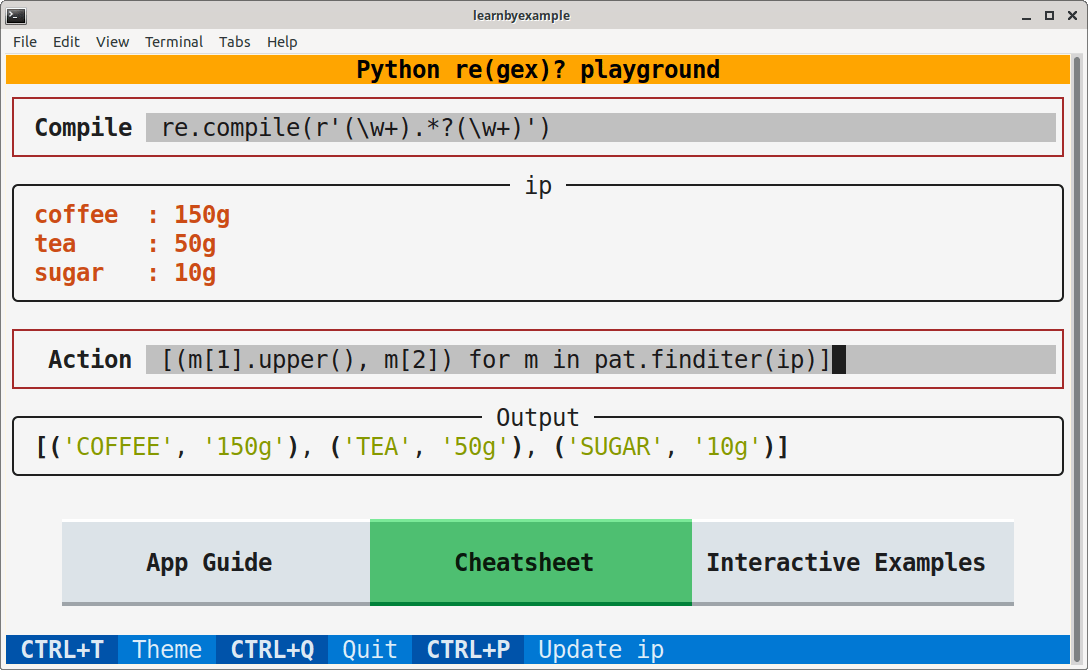
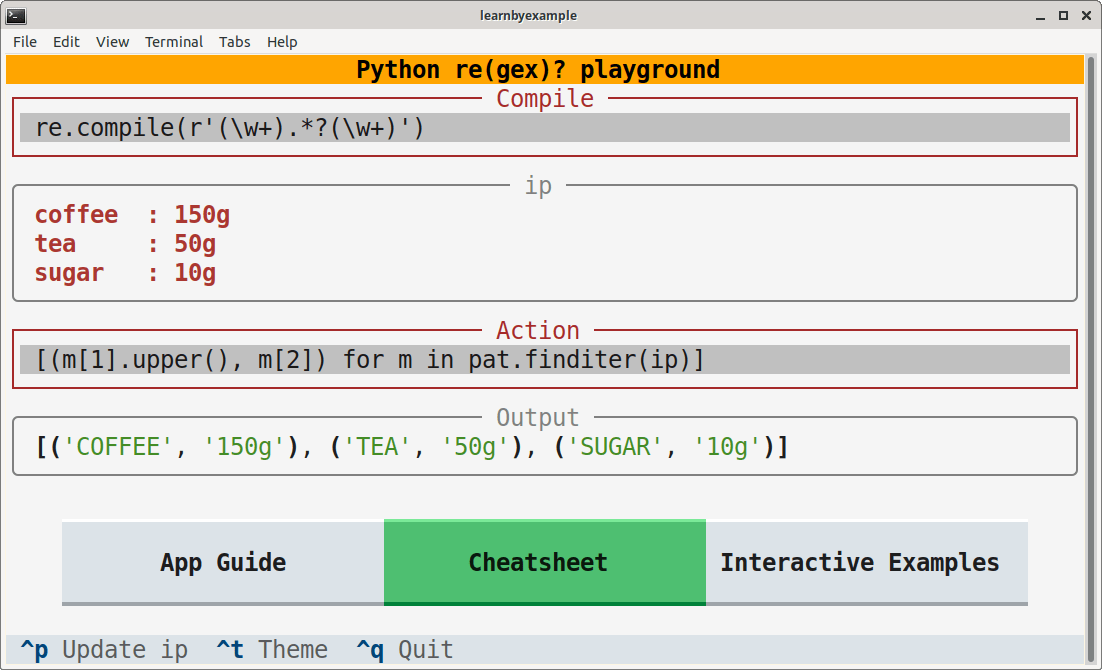
changed dynamic container code to not use mount

diff --git a/PyRegexPlayground/pyregex_playground.css b/PyRegexPlayground/pyregex_playground.css
@@ -15,6 +15,7 @@
     height: auto;
     width: 100%;
     border: solid brown;
+    border-title-align: center;    
 }
 
 .examples_ip {
@@ -37,14 +38,6 @@
 .examples_md {
     margin: 1 2 0 2;
     border: none;
-}
-
-.playground_name {
-    min-height: 1;
-    padding: 0 1 0 1;
-    text-style: bold;
-    text-align: right;
-    width: 9;
 }
 
 .playground_ip {

diff --git a/PyRegexPlayground/pyregex_playground.py b/PyRegexPlayground/pyregex_playground.py
@@ -83,17 +83,17 @@ class Examples(Screen):
                 l_op.border_title = str(type(e).__name__)
 
     def load_examples(self):
-        self.v_examples = Vertical(classes='container')
         self.v_code_block = []
         self.input_collection = []
         comment_highlighter = CommentHighlighter()
         with open('examples.json', encoding='UTF-8') as f:
             md = iter(json.load(f).values())
         idx = 0
+        md_cb_widgets = []
         for info in md:
             code_block = next(md)
-            self.v_code_block.append(Vertical(classes='code_container'))
             self.input_collection.append([])
+            cb_widgets = []
             for unit in code_block:
                 lines = unit.splitlines(keepends=True)
                 *setup, expr = lines
@@ -107,10 +107,12 @@ class Examples(Screen):
                 l_op = Label(Pretty(op), classes='examples_op', markup=False)
                 t.append(l_op)
                 self.input_collection[idx].append(t)
-                self.v_code_block[idx].mount(*t)
-            self.v_examples.mount(Label(RichMarkdown(info), classes='examples_md'))
-            self.v_examples.mount(self.v_code_block[idx])
+                cb_widgets.extend(t)
+            self.v_code_block.append(Vertical(*cb_widgets, classes='code_container'))
+            md_cb_widgets.append(Label(RichMarkdown(info), classes='examples_md'))
+            md_cb_widgets.append(self.v_code_block[idx])
             idx += 1
+        self.v_examples = Vertical(*md_cb_widgets, classes='container')
         self.v_container.mount(self.v_examples)
 
     def action_reload(self):
@@ -129,9 +131,6 @@ class Playground(Screen):
 
     def __init__(self):
         super().__init__()
-
-        self.l_compile = Label('Compile', classes='playground_name')
-        self.l_action = Label('Action', classes='playground_name')
 
         self.l_compile_error = Label()
         self.l_action_error = Label()
@@ -153,7 +152,7 @@ class Playground(Screen):
         self.i_compile = Input(placeholder=placeholder, value="re.compile(r'')",
                                classes='playground_ip')
         self.i_compile.styles.background = self.code_bg_color
-        placeholder = "Function to run. Example: pat.sub('X', ip)"
+        placeholder = "Function to run. For example: pat.sub('X', ip)"
         self.i_action = Input(placeholder=placeholder,
                               classes='playground_ip')
         self.i_action.styles.background = self.code_bg_color
@@ -166,10 +165,10 @@ class Playground(Screen):
     def compose(self):
         yield Label('[b]Python re(gex)? playground', classes='header')
         with Vertical(classes='code_container') as self.v_compile:
-            yield Horizontal(self.l_compile, self.i_compile, classes='container')
+            yield self.i_compile
         yield self.l_input
         with Vertical(classes='code_container') as self.v_action:
-            yield Horizontal(self.l_action, self.i_action, classes='container')
+            yield self.i_action
         yield self.l_output
         with Horizontal(classes='container'):
             yield self.b_guide
@@ -179,6 +178,8 @@ class Playground(Screen):
 
     def on_mount(self):
         self.i_compile.focus()
+        self.v_compile.border_title = 'Compile'
+        self.v_action.border_title = 'Action'
 
     def on_input_submitted(self, event):
         self.l_compile_error.remove()

diff --git a/PyRegexExercises/pyregex_exercises.py b/PyRegexExercises/pyregex_exercises.py
@@ -14,7 +14,7 @@ from pathlib import Path
 class PyRegexExercises(App):
     CSS_PATH = 'pyregex_exercises.css'
     BINDINGS = [
-                Binding('ctrl+p', 'previous', 'Prev'),
+                Binding('ctrl+p', 'previous', 'Previous'),
                 Binding('ctrl+n', 'next', 'Next'),
                 Binding('ctrl+s', 'solution', 'Solution'),
                 Binding('ctrl+t', 'toggle_theme', 'Theme'),
